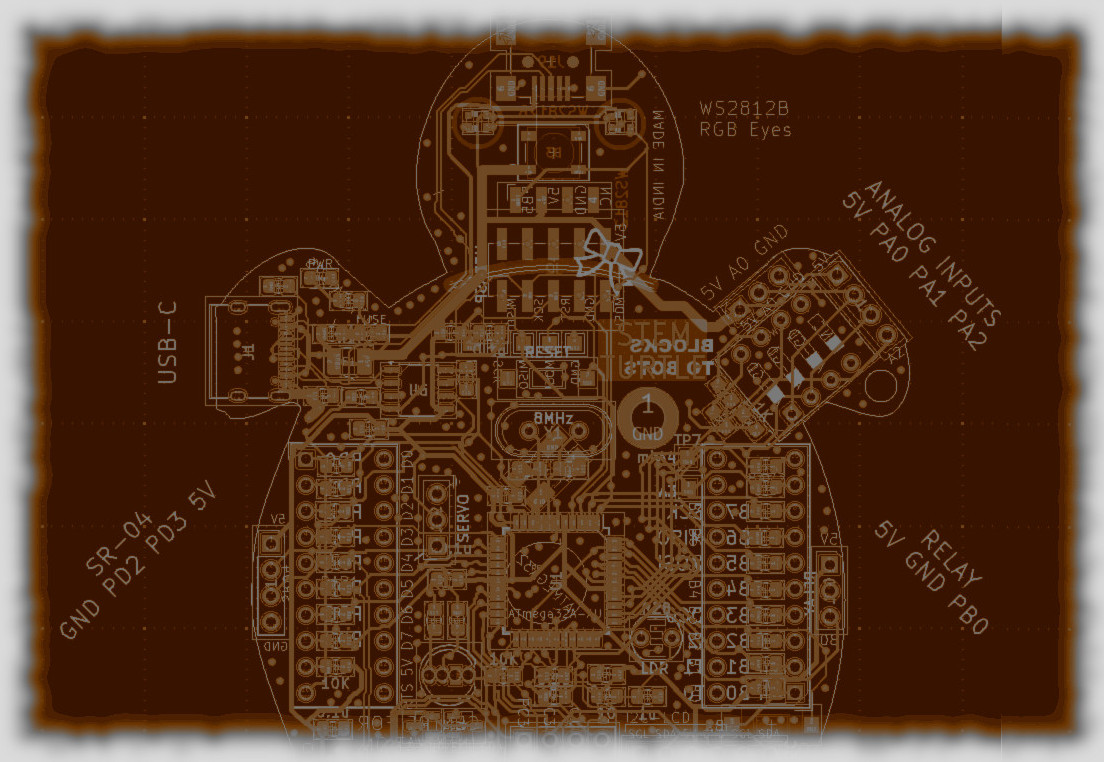
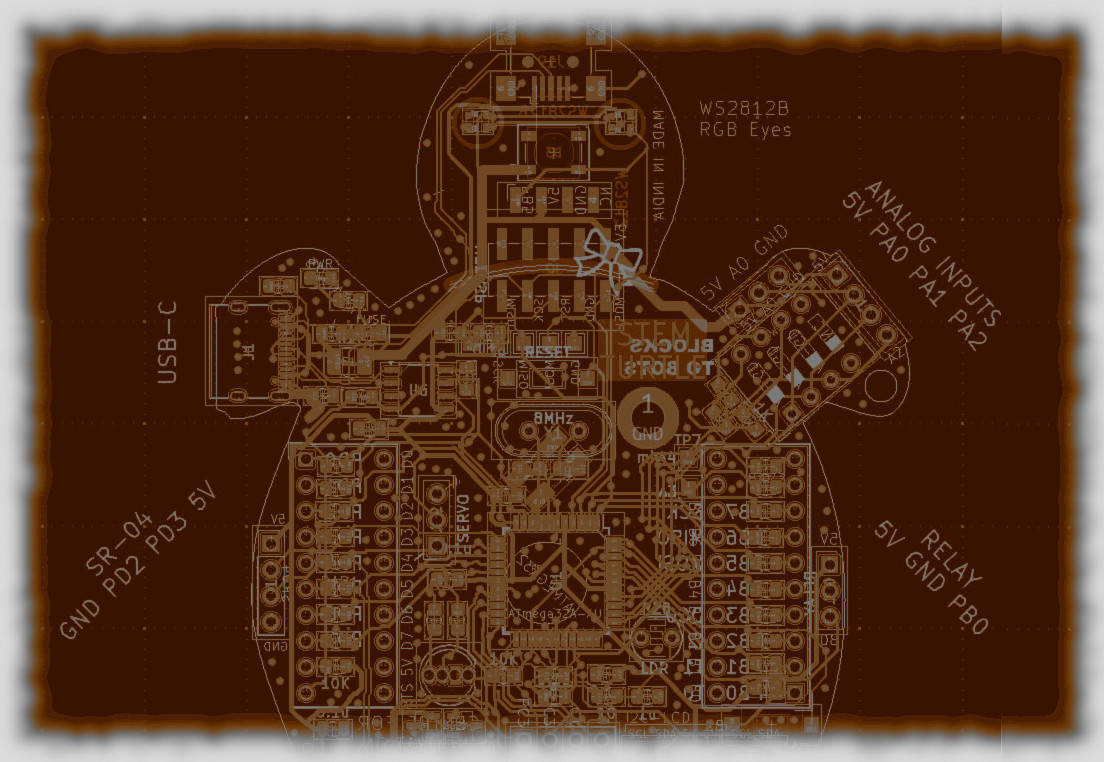
reduce sizes

diff --git a/_phd/gamma_coincidence.md b/_phd/gamma_coincidence.md
@@ -2,7 +2,7 @@
 layout: project
 title: 'Gamma-Gamma Coincidence'
 date: 1 Dec 2018
-thumb: /assets/img/phd/coincidence.gif
+thumb: /assets/img/phd/coincidence.webp
 tl: 49%
 tw: 38%
 
